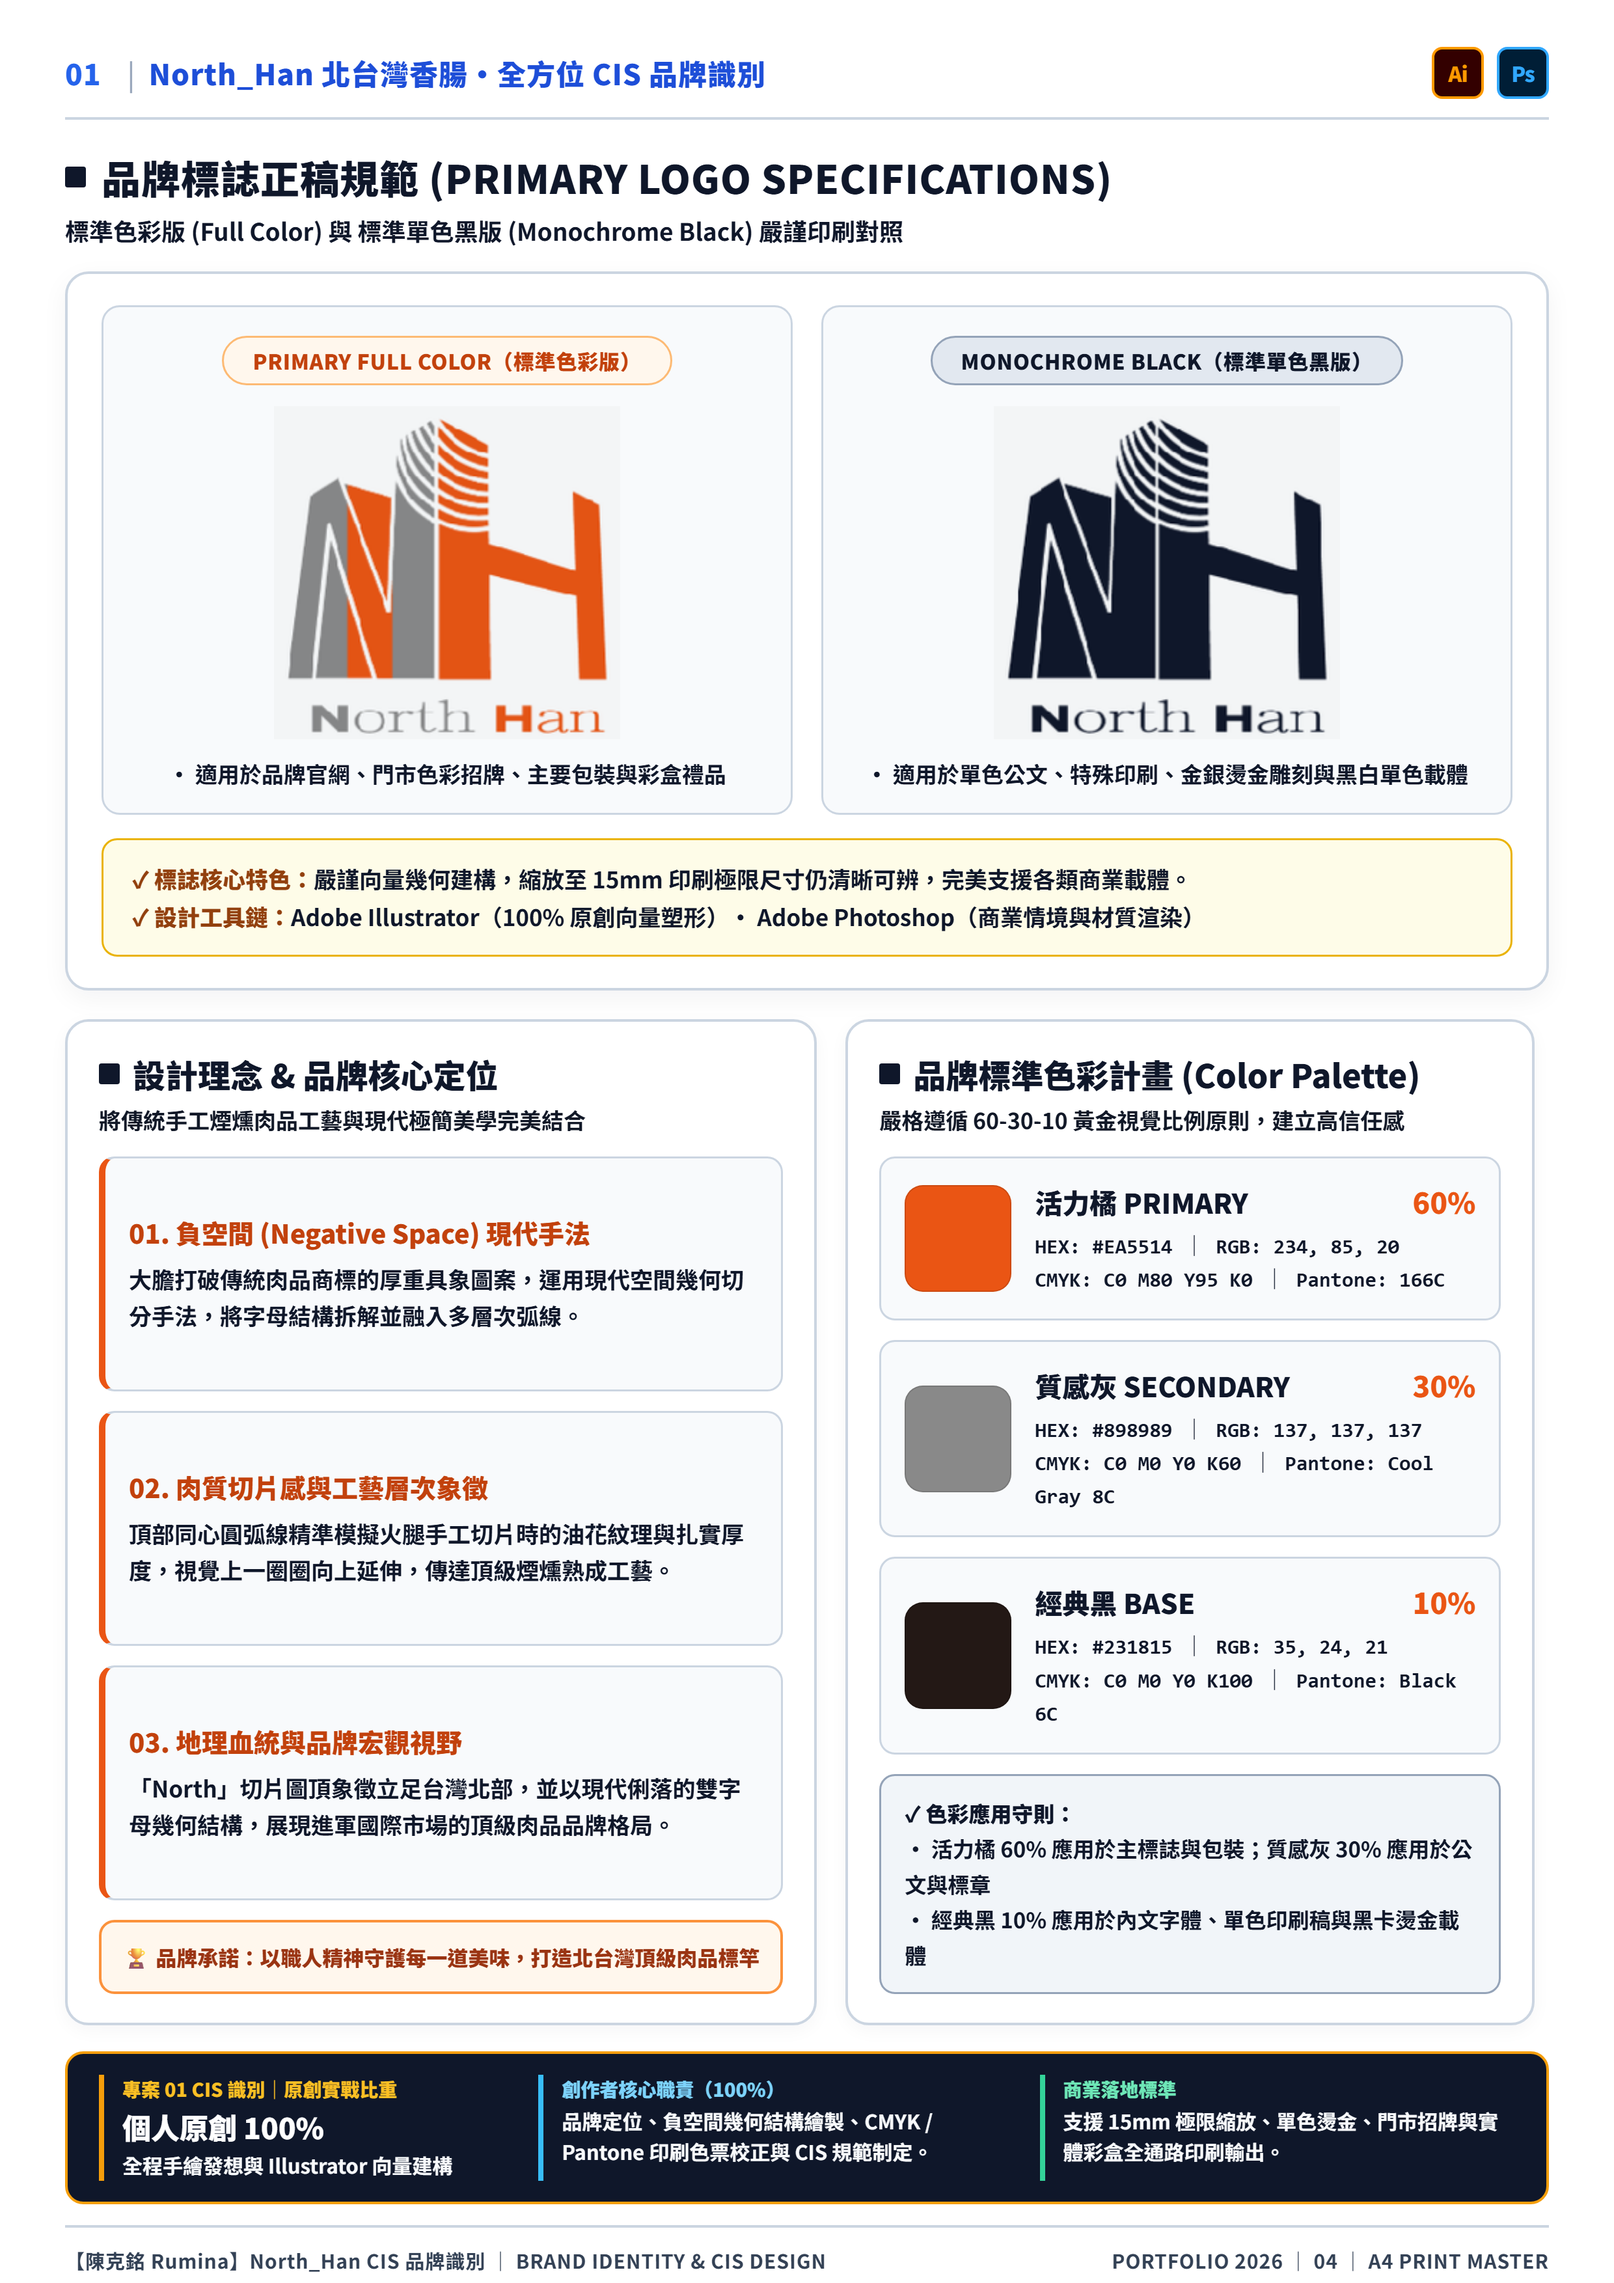
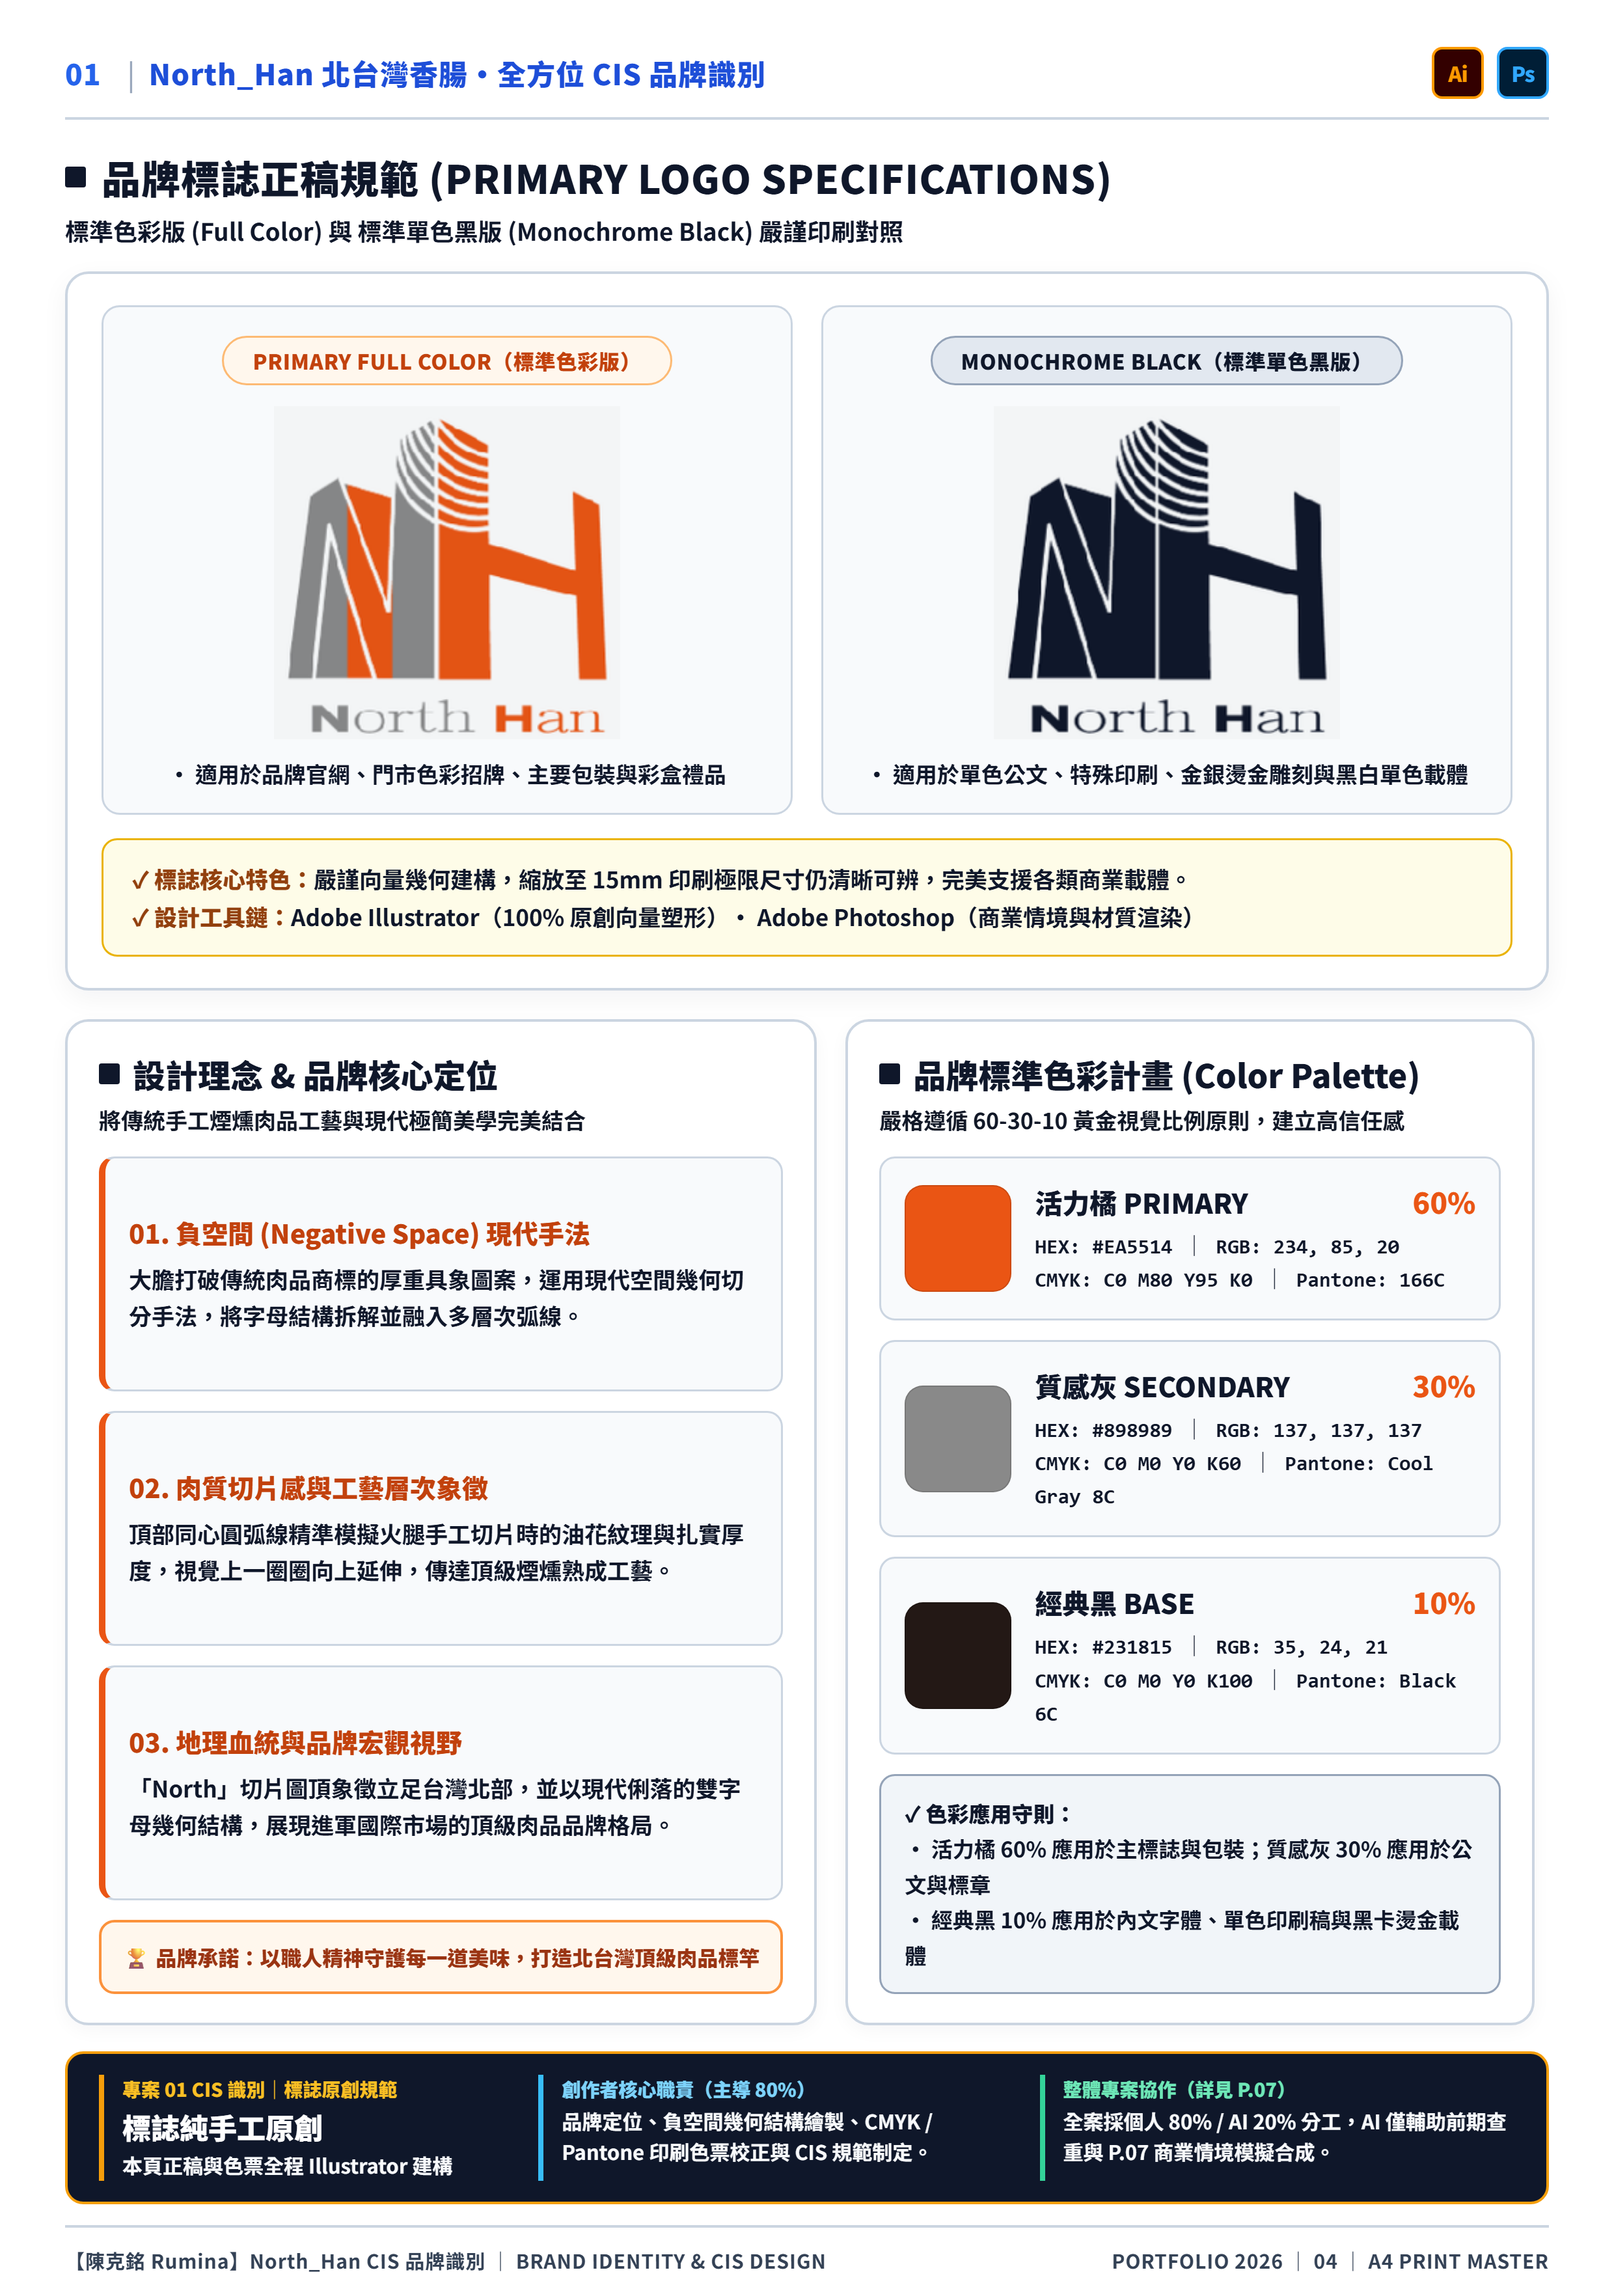
Align page_04 CIS collaboration note with page_07 (80/20 ratio consistency)

Changed region(s): [[0.652, 0.9011, 0.9315, 0.9632], [0.0621, 0.9011, 0.2484, 0.9632], [0.4347, 0.9011, 0.4968, 0.9322]]

diff --git a/portfolio.html b/portfolio.html
@@ -159,7 +159,7 @@
     { index: 1, title: "01. 封面 ‧ 多媒體視覺設計 ＆ AI 智慧應用作品集", file: "images/page_01.png?v=20261127" },
     { index: 2, title: "02. 個人簡介 ‧ 經歷背景、核心專長與六大實戰實績", file: "images/page_02.png?v=20261127" },
     { index: 3, title: "03. 作品目錄 ‧ 十大專案精選全覽", file: "images/page_03.png?v=20261127" },
-    { index: 4, title: "04. North_Han CIS ‧ 品牌標誌正稿規範、設計理念與色彩計畫", file: "images/page_04.png?v=20261127v7" },
+    { index: 4, title: "04. North_Han CIS ‧ 品牌標誌正稿規範、設計理念與色彩計畫", file: "images/page_04.png?v=20261127v8" },
     { index: 5, title: "05. North_Han CIS ‧ 標誌幾何構圖演進與手繪黑板工程藍圖", file: "images/page_05.png?v=20261127v7" },
     { index: 6, title: "06. North_Han CIS ‧ VI 三大標準色票、標準字體與安全邊界規範", file: "images/page_06.png?v=20261127" },
     { index: 7, title: "07. North_Han CIS ‧ 實體商業載體模擬展示與人機協作配比", file: "images/page_07.png?v=20261127" },
